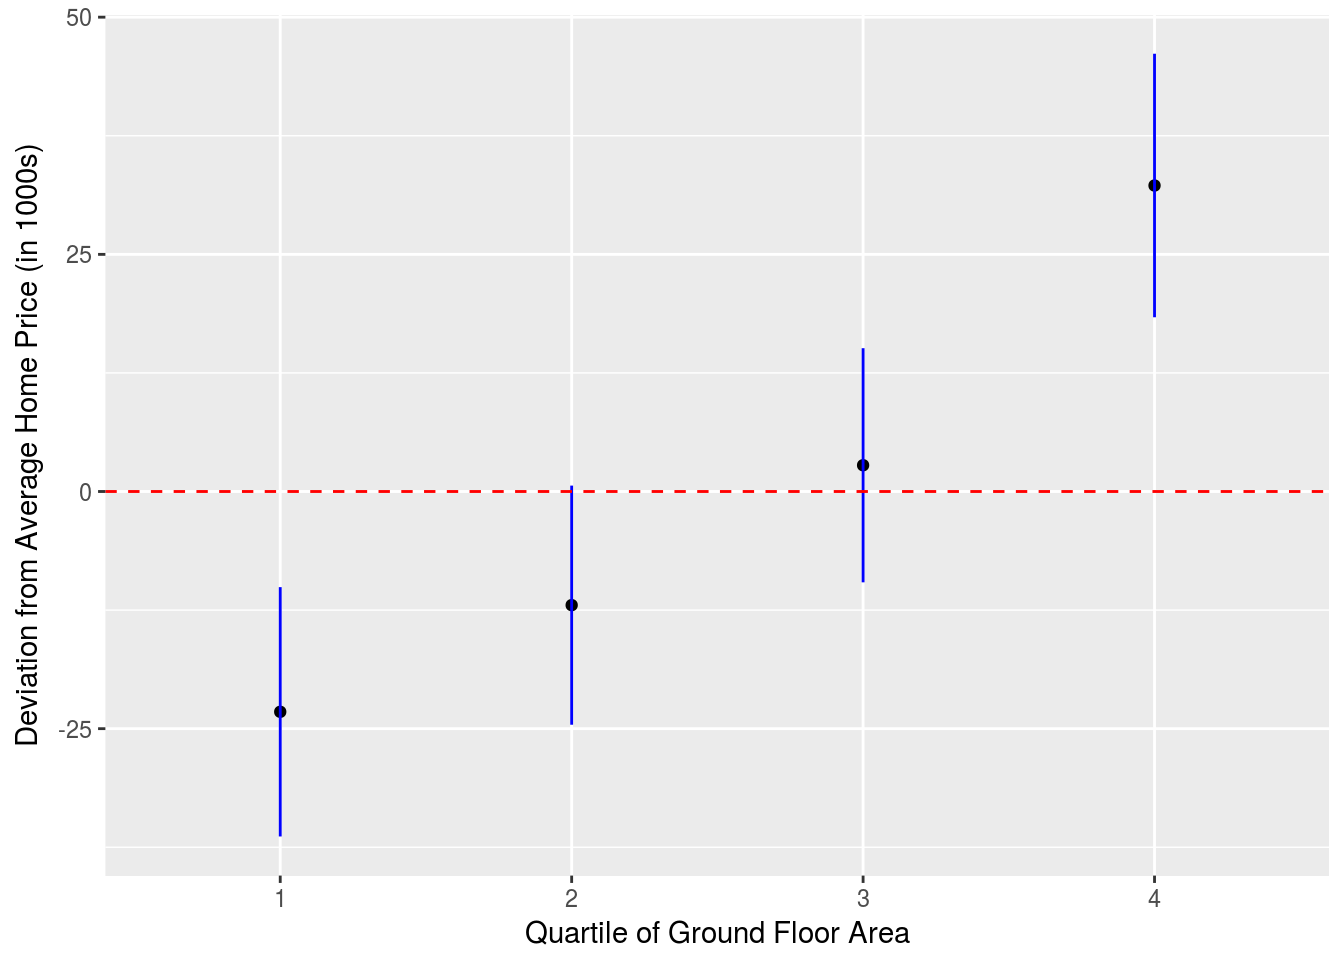
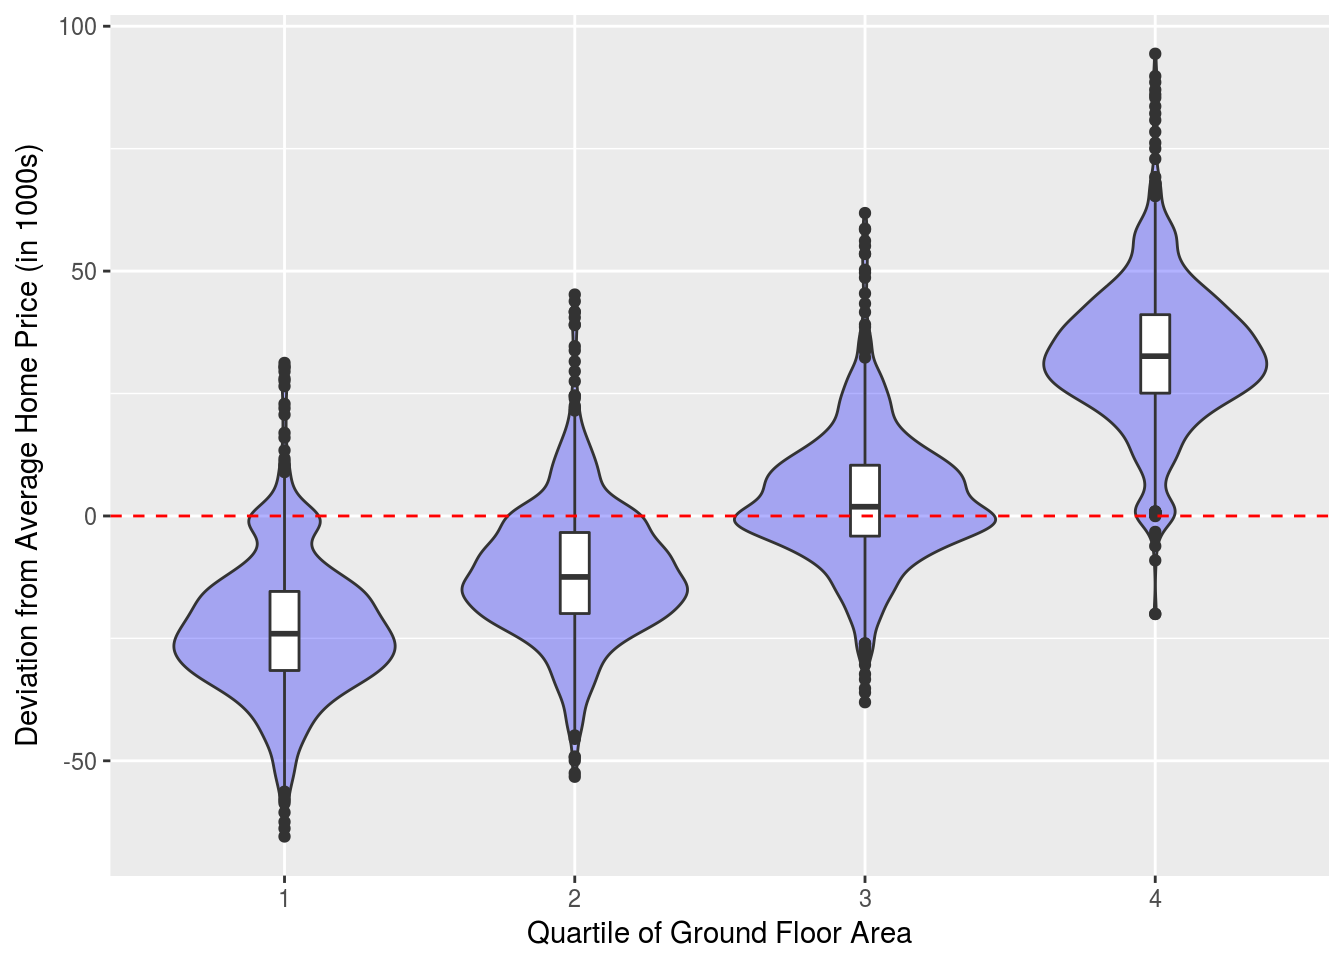
Updated Bayes Housing example

diff --git a/docs/housing.html b/docs/housing.html
@@ -217,7 +217,7 @@ library(bridgesampling)
 library(dplyr)
 library(ggplot2)
 library(tidyr)</code></pre>
-<p>Now we’ll load our data. For this project we’ll study how the distributions of house prices vary by neighborhood. Note there is information for 28 neighborhoods and 2930 houses. We’ll also create a list of full names of the neighborhoods which can be found in the documentation.</p>
+<p>Now we’ll load our data. For this project we’ll study how the distributions of house prices vary by neighborhood. Note there is information for 28 neighborhoods and 2930 houses. The mean home price for this data is approximately $181,000. We’ll also create a list of full names of the neighborhoods which can be found in the documentation.</p>
 <pre class="r"><code>Houses &lt;- read.csv(&quot;AmesHousing.csv&quot;) %&gt;% mutate(SalePrice = SalePrice / 1000)
 
 Neighborhood_array &lt;- c(&quot;Bloomington Heights&quot;, &quot;Bluestem&quot;, &quot;Briardale&quot;, &quot;Brookside&quot;, &quot;Clear Creek&quot;, &quot;College Creek&quot;, &quot;Crawford&quot;, &quot;Edwards&quot;, &quot;Gilbert&quot;, &quot;Greens&quot;, &quot;Green Hills&quot;, &quot;Iowa DOT and Rail Road&quot;, &quot;Landmark&quot;, &quot;Meadow Village&quot;, &quot;Mitchell&quot;, &quot;North Ames&quot;, &quot;Northridge&quot;, &quot;Northpark Villa&quot;, &quot;Northridge Heights&quot;, &quot;Northwest Ames&quot;, &quot;Old Town&quot;, &quot;South &amp; West of Iowa State University&quot;, &quot;Sawyer&quot;, &quot;Sawyer West&quot;, &quot;Somerset&quot;, &quot;Stone Brook&quot;, &quot;Timberland&quot;, &quot;Veenker&quot;)</code></pre>
@@ -270,53 +270,67 @@ varImp(mod)</code></pre>
 <pre class="r"><code>Houses &lt;- read.csv(&quot;AmesHousing.csv&quot;) %&gt;%
   mutate(Neighborhood = as.numeric(Neighborhood), SalePrice = SalePrice / 1000, Gr.Liv.Area = ntile(Gr.Liv.Area, 4)) %&gt;%
   select(SalePrice, Neighborhood, Overall.Qual, Gr.Liv.Area) %&gt;% na.omit()</code></pre>
-<p>Here is the STAN code for our model.</p>
+<p>To model our data, we’ll use a crossed-hierarchical model. Crossed-hierarchical models are useful when we have more than one partitioning of the data. Note the partitions are imbalanced for our data so like for the electricity example, hierarchical Bayes allows us to borrow strength from the likelihood of other partitions. For our crossed-hierarchical model, the intercept represents the average house price and a parameter is added to represent the deviation from this average for each of the three grouping variables. Below is a hierarchical diagram of how the model is constructed. Here is the STAN code for our model.</p>
 <pre class="r"><code>crossed_stan_code &lt;- 
 
 &quot;
 
 data {
-  int&lt;lower=0&gt; N; //number of observations
-  int&lt;lower=1,upper=10&gt; qual_id[N]; // vector of quality indices
-  int&lt;lower=1,upper=28&gt; nbhd_id[N]; // vector of neighborhood indices
-  int&lt;lower=1,upper=28&gt; area_id[N]; // vector of area indices
-  vector[N] y;
+  int&lt;lower=0&gt; m; // number of observations
+  int&lt;lower=1,upper=10&gt; q_id[m]; // quality index for each observation
+  int&lt;lower=1,upper=28&gt; n_id[m]; // neighborhood index for each observation
+  int&lt;lower=1,upper=28&gt; a_id[m]; // area index for each observation
+  vector[m] y; // house price for each observation
 }
 parameters {
-  vector[10] gamma; // vector of quality deviation from the average 
-  vector[28] delta; // vector of neighborhood deviation from the average
-  vector[4]  epsilon; // vector of area quantile deviation from the average
-  real&lt;lower=0&gt; mu; // average house price value
-  real&lt;lower=0&gt; sigma_gamma; // standard deviation of the gamma coefficients
-  real&lt;lower=0&gt; sigma_delta; // standard deviation of the delta coefficients
-  real&lt;lower=0&gt; sigma_epsilon; // standard deviation of the epsilon coefficients
-  real&lt;lower=0&gt; sigma_y; // standard deviation of the observations
+  real&lt;lower=0&gt; mu; // average house price value. the intercept in this model
+
+  vector[10] Q; // vector of quality deviations from the average
+  real&lt;lower=0&gt; sigma_Q; // standard deviation of the Q coefficients
+
+  vector[28] N; // vector of neighborhood deviations from the average
+  real&lt;lower=0&gt; sigma_N; // standard deviation of the N coefficients
+
+  vector[4]  A; // vector of area quantile deviations from the average
+  real&lt;lower=0&gt; sigma_A; // standard deviation of the A coefficients
+
+  real&lt;lower=0&gt; sigma_y; // standard deviation of all the observations
 }
 transformed parameters {
-  vector[N] y_hat;
+  vector[m] y_hat;
 
-  for (i in 1:N)
-    y_hat[i] = mu + gamma[qual_id[i]] + delta[nbhd_id[i]] + epsilon[area_id[i]];
+  // fits the deviation from the average home price of each category to each observation  
+  for (i in 1:m)
+    y_hat[i] = mu + Q[q_id[i]] + N[n_id[i]] + A[a_id[i]];
 }
 model {
-  // priors on the scale coefficient
-  sigma_gamma ~ cauchy(0,2.5);
-  sigma_delta ~ cauchy(0,2.5);
-  sigma_epsilon ~ cauchy(0,2.5);
+  // priors 
+  Q ~ normal(0, sigma_Q);
+  sigma_Q ~ cauchy(0,2.5);
+
+  N ~ normal(0, sigma_N);
+  sigma_N ~ cauchy(0,2.5);
+
+  A ~ normal(0, sigma_A);
+  sigma_A ~ cauchy(0,2.5);
+
   sigma_y ~ gamma(2,0.1);
-  // gets quality and neighborhood level deviation
-  gamma ~ normal(0, sigma_gamma);
-  delta ~ normal(0, sigma_delta);
-  epsilon ~ normal(0, sigma_epsilon);
+
   // the likelihood
   y ~ normal(y_hat, sigma_y);
 }
 
 &quot;</code></pre>
+<p>Here is a hierarchical diagram of the model.</p>
+<div class="figure">
+<img src="7.png" />
+
+</div>
+<p>The model estimates the deviation from average home price, mu, for each of the following partitions of the data: A (the ground floor area quartile), N (the neighborhood), and Q (the quality rating). The model was run with 1000 iterations of MCMC (Markov Chain Monte Carlo) and two chains. The trace of the standard deviation of all observations in our MCMC model is shown below.</p>
 <p>Now we’ll train our model. Note we are using Markov chain Monte Carlo (MCMC) to increase our sample size. The <em>chains</em> parameter specifies the number of Markov chains and the <em>iter</em> parameter specifies the number of iterations for each chain.</p>
 <pre class="r"><code>set.seed(1234)
 
-dat&lt;-list(N = nrow(Houses), qual_id = Houses$Overall.Qual, nbhd_id = Houses$Neighborhood, area_id = Houses$Gr.Liv.Area, y = Houses$SalePrice)
+dat&lt;-list(m = nrow(Houses), q_id = Houses$Overall.Qual, n_id = Houses$Neighborhood, a_id = Houses$Gr.Liv.Area, y = Houses$SalePrice)
 mod &lt;-stan(model_code = crossed_stan_code , data=dat, iter=1000, chains=2, control = list(max_treedepth = 12))</code></pre>
 <pre><code>## In file included from /home/oliver/R/x86_64-pc-linux-gnu-library/3.4/BH/include/boost/config.hpp:39:0,
 ##                  from /home/oliver/R/x86_64-pc-linux-gnu-library/3.4/BH/include/boost/math/tools/config.hpp:13,
@@ -326,16 +340,16 @@ mod &lt;-stan(model_code = crossed_stan_code , data=dat, iter=1000, chains=2, co
 ##                  from /home/oliver/R/x86_64-pc-linux-gnu-library/3.4/StanHeaders/include/stan/math/rev/mat.hpp:4,
 ##                  from /home/oliver/R/x86_64-pc-linux-gnu-library/3.4/StanHeaders/include/stan/math.hpp:4,
 ##                  from /home/oliver/R/x86_64-pc-linux-gnu-library/3.4/StanHeaders/include/src/stan/model/model_header.hpp:4,
-##                  from file3b235bbb036.cpp:8:
+##                  from file58338bb57d0.cpp:8:
 ## /home/oliver/R/x86_64-pc-linux-gnu-library/3.4/BH/include/boost/config/compiler/gcc.hpp:186:0: warning: &quot;BOOST_NO_CXX11_RVALUE_REFERENCES&quot; redefined
 ##  #  define BOOST_NO_CXX11_RVALUE_REFERENCES
 ##  ^
 ## &lt;command-line&gt;:0:0: note: this is the location of the previous definition
 ## 
-## SAMPLING FOR MODEL &#39;a52f346d5fa1d3aa5972e8a11bf1ed6f&#39; NOW (CHAIN 1).
+## SAMPLING FOR MODEL &#39;7390abe7bbf0b7eb73833c2a6dc4092b&#39; NOW (CHAIN 1).
 ## 
-## Gradient evaluation took 0.000302 seconds
-## 1000 transitions using 10 leapfrog steps per transition would take 3.02 seconds.
+## Gradient evaluation took 0.000293 seconds
+## 1000 transitions using 10 leapfrog steps per transition would take 2.93 seconds.
 ## Adjust your expectations accordingly!
 ## 
 ## 
@@ -352,15 +366,15 @@ mod &lt;-stan(model_code = crossed_stan_code , data=dat, iter=1000, chains=2, co
 ## Iteration: 900 / 1000 [ 90%]  (Sampling)
 ## Iteration: 1000 / 1000 [100%]  (Sampling)
 ## 
-##  Elapsed Time: 68.6429 seconds (Warm-up)
-##                27.8893 seconds (Sampling)
-##                96.5322 seconds (Total)
+##  Elapsed Time: 71.8357 seconds (Warm-up)
+##                23.348 seconds (Sampling)
+##                95.1837 seconds (Total)
 ## 
 ## 
-## SAMPLING FOR MODEL &#39;a52f346d5fa1d3aa5972e8a11bf1ed6f&#39; NOW (CHAIN 2).
+## SAMPLING FOR MODEL &#39;7390abe7bbf0b7eb73833c2a6dc4092b&#39; NOW (CHAIN 2).
 ## 
-## Gradient evaluation took 0.000236 seconds
-## 1000 transitions using 10 leapfrog steps per transition would take 2.36 seconds.
+## Gradient evaluation took 0.000237 seconds
+## 1000 transitions using 10 leapfrog steps per transition would take 2.37 seconds.
 ## Adjust your expectations accordingly!
 ## 
 ## 
@@ -377,56 +391,54 @@ mod &lt;-stan(model_code = crossed_stan_code , data=dat, iter=1000, chains=2, co
 ## Iteration: 900 / 1000 [ 90%]  (Sampling)
 ## Iteration: 1000 / 1000 [100%]  (Sampling)
 ## 
-##  Elapsed Time: 79.1185 seconds (Warm-up)
-##                39.8585 seconds (Sampling)
-##                118.977 seconds (Total)</code></pre>
-<p>We received no errors! Now we’ll examine the trace of <em>sigma_y</em> (the standard deviation of all the observations) in our MCMC model.</p>
+##  Elapsed Time: 70.7985 seconds (Warm-up)
+##                32.933 seconds (Sampling)
+##                103.732 seconds (Total)</code></pre>
+<p>We received no errors! Now we’ll examine the trace of <em>sigma_y</em> (the standard deviation of all the observations) in our MCMC model. At first glance, sigma_y appears to not be converging, but the values are actually all very close to 35. Now we’ll examine the distributions of the deviations from the average home price for each parameter.</p>
 <pre class="r"><code>stan_trace(mod, pars = c(&quot;sigma_y&quot;))</code></pre>
 <p><img src="housing_files/figure-html/unnamed-chunk-8-1.png" width="672" /></p>
 <p>Now we’ll extract out out samples produced and put them in a dataframe.</p>
-<pre class="r"><code>crossed_samples &lt;- as.data.frame( mod@sim$samples )  %&gt;% select(gamma.1. : epsilon.4.)
+<pre class="r"><code>crossed_samples &lt;- as.data.frame( mod@sim$samples )  %&gt;% select(Q.1. : A.4.)
 
-Qual_stats &lt;- crossed_samples %&gt;% select(gamma.1. : gamma.10.) %&gt;%
+Quals &lt;- crossed_samples %&gt;% select(Q.1. : Q.10.) %&gt;%
   gather(key = Qual, value = SalePrice) %&gt;% 
   arrange(Qual) %&gt;%
-  group_by(Qual) %&gt;% summarise(mean = mean(SalePrice), sd = sd(SalePrice)) %&gt;%
   mutate(Qual = as.numeric( gsub(&quot;[^0-9]&quot;, &quot;&quot;, Qual))) %&gt;%
   arrange(Qual)
 
-Neighborhood_stats &lt;- crossed_samples %&gt;% select(delta.1. : delta.28.) %&gt;%
-  gather(key = Neighborhood, value = SalePrice) %&gt;%
-  group_by(Neighborhood) %&gt;% summarise(mean = mean(SalePrice), sd = sd(SalePrice)) %&gt;%
-  mutate(Neighborhood = as.factor(as.numeric( gsub(&quot;[^0-9]&quot;, &quot;&quot;, Neighborhood)))) %&gt;%
+Neighborhoods &lt;- crossed_samples %&gt;% select(N.1. : N.28.) %&gt;%
+  gather(key = Neighborhood, value = SalePrice) %&gt;% 
+  arrange(Neighborhood) %&gt;%
+  mutate(Neighborhood = as.numeric( gsub(&quot;[^0-9]&quot;, &quot;&quot;, Neighborhood))) %&gt;%
   arrange(Neighborhood)
 
-Area_stats &lt;- crossed_samples %&gt;% select(epsilon.1. : epsilon.4.) %&gt;%
-  gather(key = Area_quartile, value = SalePrice) %&gt;%
-  group_by(Area_quartile) %&gt;% summarise(mean = mean(SalePrice), sd = sd(SalePrice)) %&gt;%
-  mutate(Area_quartile = as.factor(as.numeric( gsub(&quot;[^0-9]&quot;, &quot;&quot;, Area_quartile)))) %&gt;%
+Areas &lt;-crossed_samples %&gt;% select(A.1. : A.4.) %&gt;%
+  gather(key = Area_quartile, value = SalePrice) %&gt;% 
+  arrange(Area_quartile) %&gt;%
+  mutate(Area_quartile = as.numeric( gsub(&quot;[^0-9]&quot;, &quot;&quot;, Area_quartile))) %&gt;%
   arrange(Area_quartile)</code></pre>
-<p>Now we’ll look at the deviation from the mean home price for each quality class. Interestingly, this suggests we need a rank of 8 to be significantly above the average home price.</p>
-<pre class="r"><code>Qual_stats %&gt;%  ggplot(aes(x = Qual, y = mean)) +
-  geom_point() +
-  scale_x_continuous(breaks= 1:10) +
-  geom_segment(aes(x = Qual, y = mean+sd, xend = Qual, yend = mean-sd), color = &quot;blue&quot;) +
+<p>Now we’ll look at the deviation from the mean home price for each quality class. Here we see quality rating and home price are highly correlated. This provides a sanity check for our model as it supports the results obtained from the conditional inference tree earlier. Also it is interesting to note this suggests a quality rating of 8 or higher is required to necessitate a significantly above average home price.</p>
+<pre class="r"><code>Quals %&gt;%  ggplot(aes(x = factor(Qual), y = SalePrice)) +
+  geom_violin(fill = &quot;blue&quot;, alpha = 0.3) +
+  geom_boxplot(width=0.1) +
   geom_hline(aes(yintercept=0), colour=&quot;red&quot;, linetype=&quot;dashed&quot;) +
   xlab(&quot;Overall Quality Ranking&quot;) +
   ylab(&quot;Deviation from Average Home Price (in 1000s)&quot;)</code></pre>
 <p><img src="housing_files/figure-html/unnamed-chunk-10-1.png" width="672" /></p>
-<p>Now we’ll do the same thing only for the neighborhoods.</p>
-<pre class="r"><code>levels(Neighborhood_stats$Neighborhood) &lt;- Neighborhood_array
+<p>Now we’ll do the same thing only for the neighborhoods. Note the neighborhoods appear to be quite segregated by home price and some neighborhoods such as Green Hills and Landmark contain a much wider range of home prices.</p>
+<pre class="r"><code>Neighborhoods$Neighborhood &lt;- as.factor(Neighborhoods$Neighborhood)
+levels(Neighborhoods$Neighborhood) &lt;- Neighborhood_array
 
-Neighborhood_stats %&gt;%  ggplot(aes(x = Neighborhood, y = mean)) +
-  geom_point() +
-  geom_segment(aes(x = Neighborhood, y = mean+sd, xend = Neighborhood, yend = mean-sd), color = &quot;blue&quot;) +
+Neighborhoods %&gt;%  ggplot(aes(x = Neighborhood, y = SalePrice)) +
+  geom_violin(fill = &quot;blue&quot;, alpha = 0.3) +
   geom_hline(aes(yintercept=0), colour=&quot;red&quot;, linetype=&quot;dashed&quot;) +
   theme(axis.text.x = element_text(angle = 45, hjust = 1, vjust = 1), plot.margin = margin(10, 10, 10, 20)) +
   ylab(&quot;Deviation from Average Home Price (in 1000s)&quot;)</code></pre>
 <p><img src="housing_files/figure-html/unnamed-chunk-11-1.png" width="672" /></p>
 <p>Finally for the quartiles of total ground floor area.</p>
-<pre class="r"><code>Area_stats %&gt;%  ggplot(aes(x = Area_quartile, y = mean)) +
-  geom_point() +
-  geom_segment(aes(x = Area_quartile, y = mean+sd, xend = Area_quartile, yend = mean-sd), color = &quot;blue&quot;) +
+<pre class="r"><code>Areas %&gt;%  ggplot(aes(x = factor(Area_quartile), y = SalePrice)) +
+  geom_violin(fill = &quot;blue&quot;, alpha = 0.3) +
+  geom_boxplot(width=0.1) +
   geom_hline(aes(yintercept=0), colour=&quot;red&quot;, linetype=&quot;dashed&quot;) +
   xlab(&quot;Quartile of Ground Floor Area&quot;) +
   ylab(&quot;Deviation from Average Home Price (in 1000s)&quot;)</code></pre>
@@ -435,20 +447,23 @@ Neighborhood_stats %&gt;%  ggplot(aes(x = Neighborhood, y = mean)) +
 <pre class="r"><code>non_hier_stan_code &lt;- 
 
 &quot;
-
 data {
-  int&lt;lower=0&gt; N; //number of observations
-  int&lt;lower=1,upper=10&gt; qual_id[N]; // vector of quality indices
-  int&lt;lower=1,upper=28&gt; nbhd_id[N]; // vector of neighborhood indices
-  int&lt;lower=1,upper=28&gt; area_id[N]; // vector of area indices
-  vector[N] y;
+  int&lt;lower=0&gt; m; // number of observations
+  int&lt;lower=1,upper=10&gt; q_id[m]; // quality index for each observation
+  int&lt;lower=1,upper=28&gt; n_id[m]; // neighborhood index for each observation
+  int&lt;lower=1,upper=28&gt; a_id[m]; // area index for each observation
+  vector[m] y; // house price for each observation
 }
 parameters {
-  real y_hat;
-  real&lt;lower=0&gt; sigma_y; // standard deviation of the observations
+  real&lt;lower=0&gt; mu; // average house price value. the intercept in this model
+  real&lt;lower=0&gt; sigma_y; // standard deviation of all the observations
 }
 model {
-  y ~ normal(y_hat, sigma_y);
+  // priors 
+  sigma_y ~ gamma(2,0.1);
+
+  // the likelihood
+  y ~ normal(mu, sigma_y);
 }
 
 &quot;</code></pre>
@@ -463,16 +478,16 @@ non_hier_mod &lt;-stan(model_code = non_hier_stan_code , data=dat, iter=1000, ch
 ##                  from /home/oliver/R/x86_64-pc-linux-gnu-library/3.4/StanHeaders/include/stan/math/rev/mat.hpp:4,
 ##                  from /home/oliver/R/x86_64-pc-linux-gnu-library/3.4/StanHeaders/include/stan/math.hpp:4,
 ##                  from /home/oliver/R/x86_64-pc-linux-gnu-library/3.4/StanHeaders/include/src/stan/model/model_header.hpp:4,
-##                  from file3b2379d2634c.cpp:8:
+##                  from file58335387afdd.cpp:8:
 ## /home/oliver/R/x86_64-pc-linux-gnu-library/3.4/BH/include/boost/config/compiler/gcc.hpp:186:0: warning: &quot;BOOST_NO_CXX11_RVALUE_REFERENCES&quot; redefined
 ##  #  define BOOST_NO_CXX11_RVALUE_REFERENCES
 ##  ^
 ## &lt;command-line&gt;:0:0: note: this is the location of the previous definition
 ## 
-## SAMPLING FOR MODEL &#39;65fd36463a945785e293cc5a5f37232a&#39; NOW (CHAIN 1).
+## SAMPLING FOR MODEL &#39;eb018ced27b90f7959ee380b046ab50a&#39; NOW (CHAIN 1).
 ## 
-## Gradient evaluation took 1.5e-05 seconds
-## 1000 transitions using 10 leapfrog steps per transition would take 0.15 seconds.
+## Gradient evaluation took 1.6e-05 seconds
+## 1000 transitions using 10 leapfrog steps per transition would take 0.16 seconds.
 ## Adjust your expectations accordingly!
 ## 
 ## 
@@ -489,12 +504,12 @@ non_hier_mod &lt;-stan(model_code = non_hier_stan_code , data=dat, iter=1000, ch
 ## Iteration: 900 / 1000 [ 90%]  (Sampling)
 ## Iteration: 1000 / 1000 [100%]  (Sampling)
 ## 
-##  Elapsed Time: 0.043819 seconds (Warm-up)
-##                0.023113 seconds (Sampling)
-##                0.066932 seconds (Total)
+##  Elapsed Time: 0.033218 seconds (Warm-up)
+##                0.025933 seconds (Sampling)
+##                0.059151 seconds (Total)
 ## 
 ## 
-## SAMPLING FOR MODEL &#39;65fd36463a945785e293cc5a5f37232a&#39; NOW (CHAIN 2).
+## SAMPLING FOR MODEL &#39;eb018ced27b90f7959ee380b046ab50a&#39; NOW (CHAIN 2).
 ## 
 ## Gradient evaluation took 1e-05 seconds
 ## 1000 transitions using 10 leapfrog steps per transition would take 0.1 seconds.
@@ -514,9 +529,9 @@ non_hier_mod &lt;-stan(model_code = non_hier_stan_code , data=dat, iter=1000, ch
 ## Iteration: 900 / 1000 [ 90%]  (Sampling)
 ## Iteration: 1000 / 1000 [100%]  (Sampling)
 ## 
-##  Elapsed Time: 0.04297 seconds (Warm-up)
-##                0.024211 seconds (Sampling)
-##                0.067181 seconds (Total)</code></pre>
+##  Elapsed Time: 0.032413 seconds (Warm-up)
+##                0.025656 seconds (Sampling)
+##                0.058069 seconds (Total)</code></pre>
 <p>To compare the the models, we can compute the Bayes factor by using the <em>bf</em> function in the <em>bridgesampling</em> package. Here we compute the Bayes factor, which quantifies how much more likely the data is under the hierarchical model versus the non-hierarchical model.</p>
 <pre class="r"><code>set.seed(1234)
 
